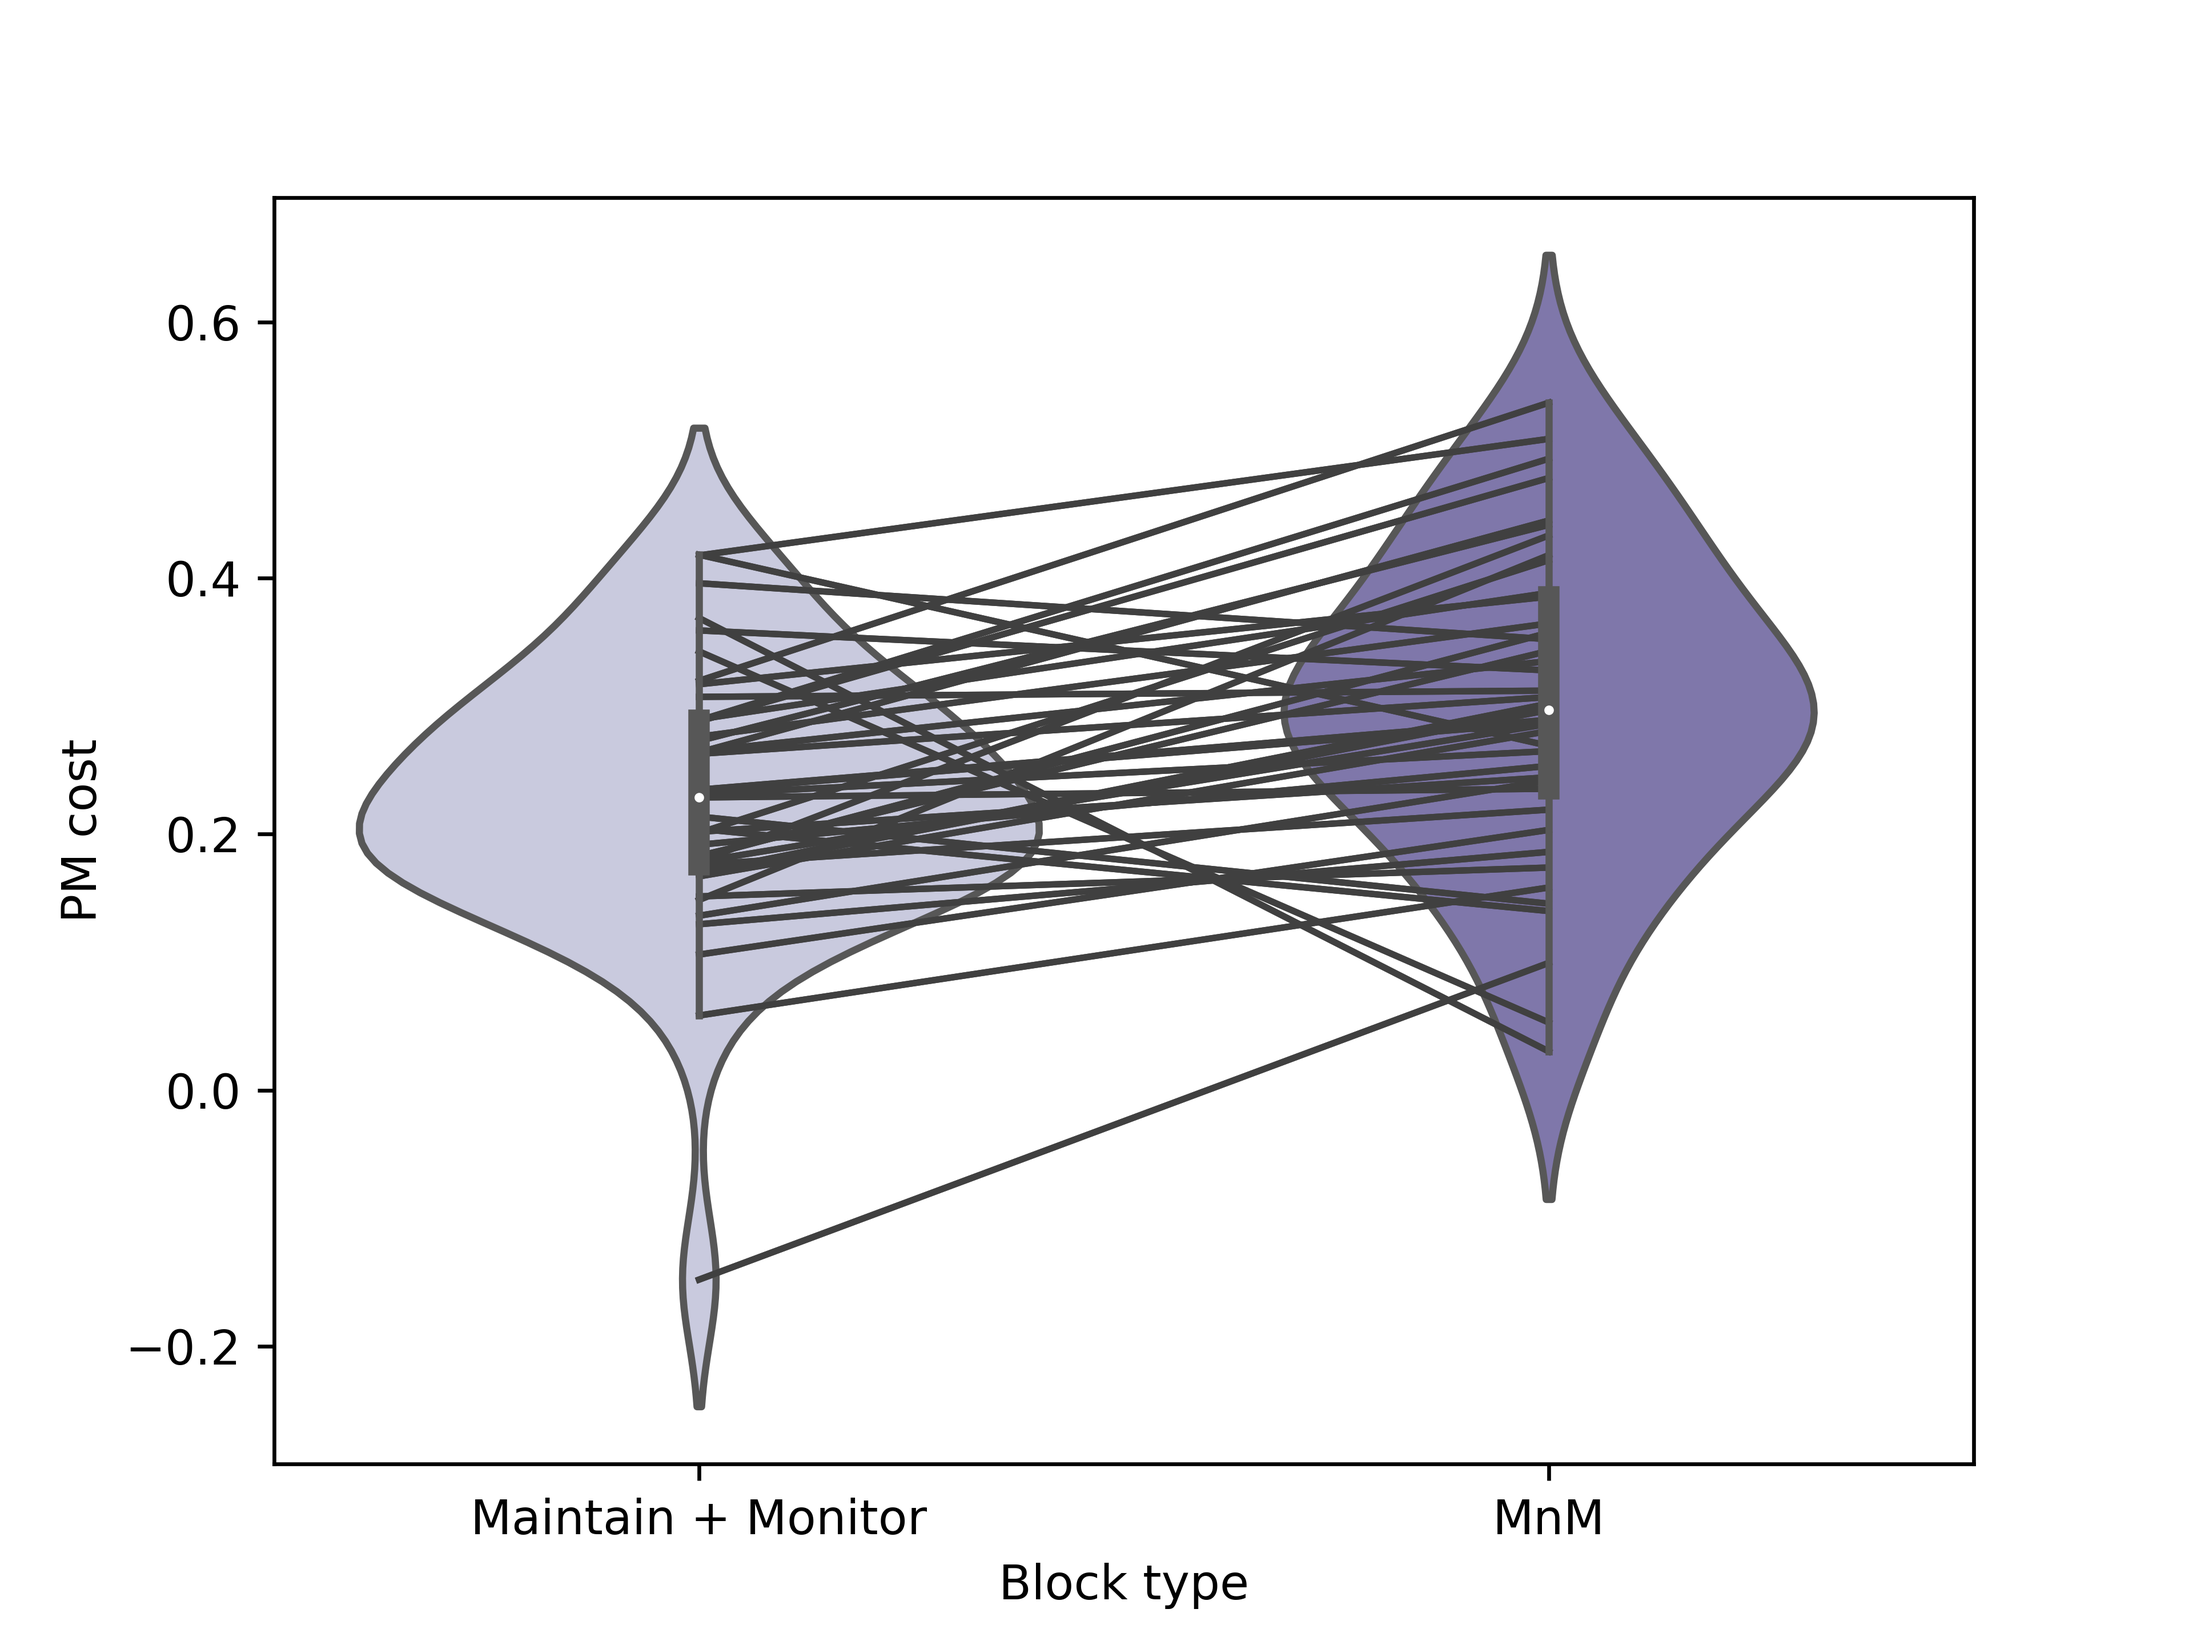
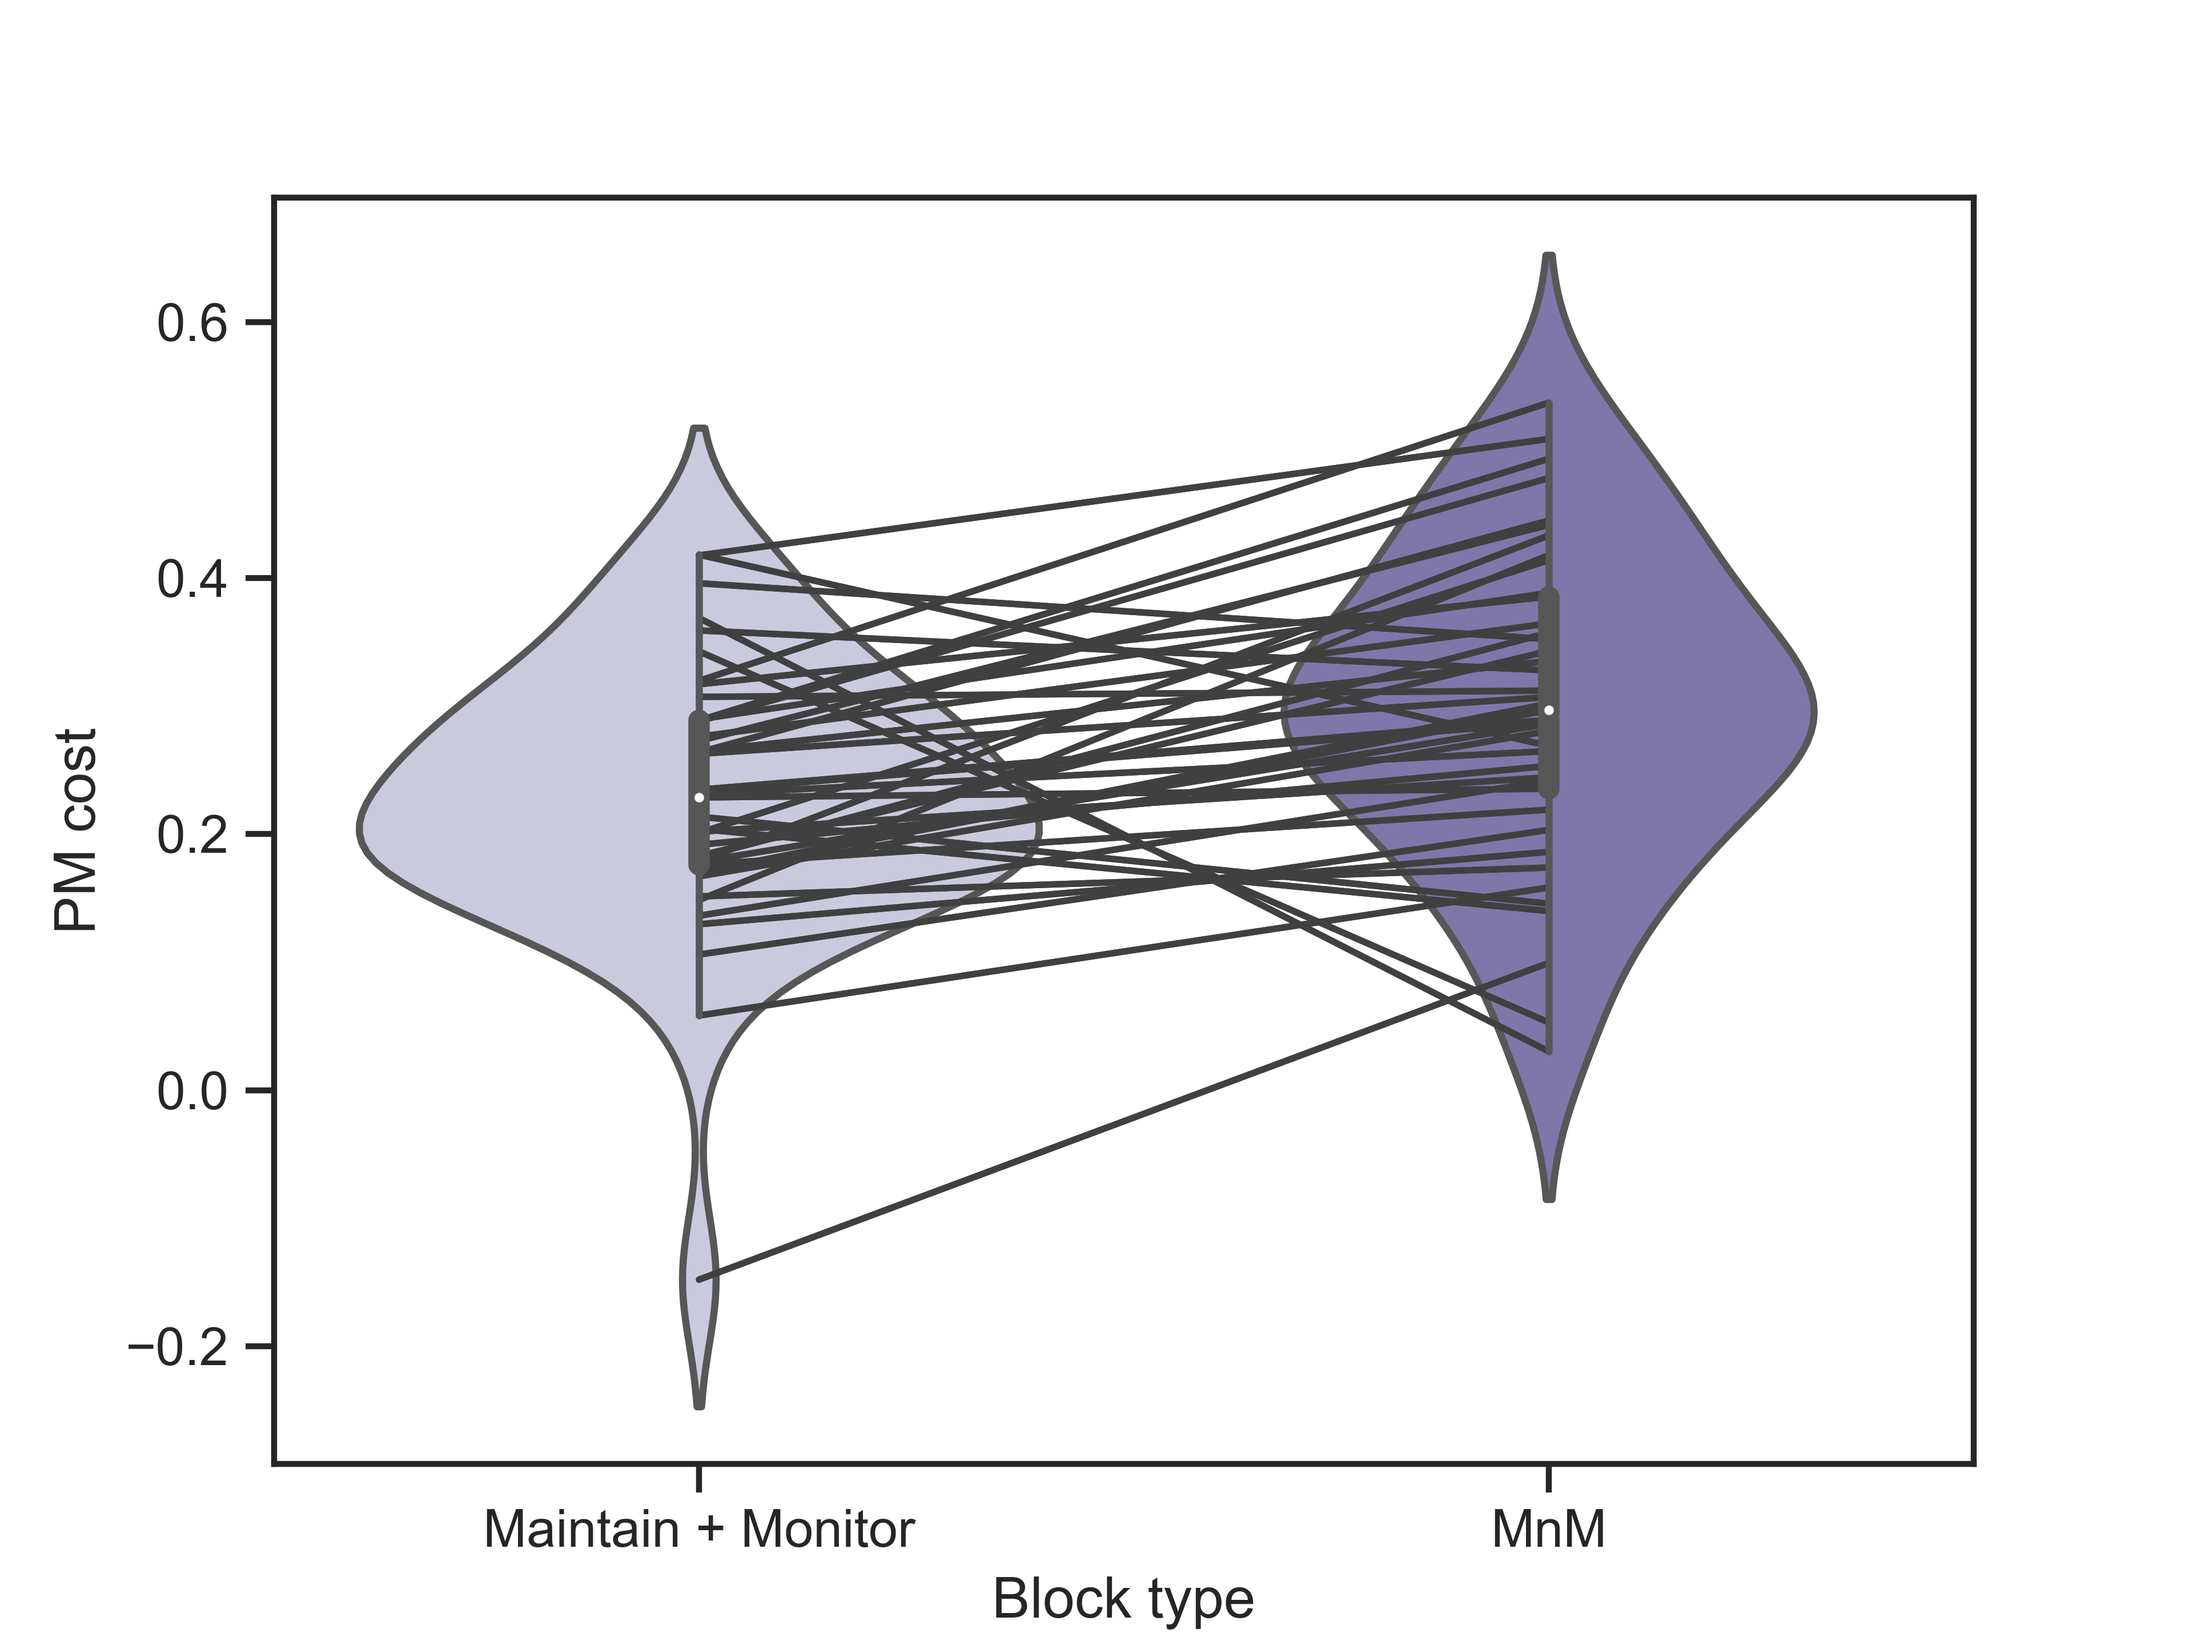
violin changed from .eps to .png

diff --git a/analysis/monitain_stats.py b/analysis/monitain_stats.py
@@ -485,7 +485,7 @@ ax.set_xlim([-0.2,0.5])
 ax.set_ylim([-0.2,0.5])
 ax = sea.regplot(x='mplusm_cost', y = 'mnm_cost', data = mplusmCost_mnmCost, color = 'purple', scatter = True) 
 plt.xlabel('Maintainence + Monitoring cost (s)')
-plt.ylabel('Combined performance')
+plt.ylabel('Combined cost (s)')
 plt.savefig(FIGURE_PATH + 'mplusmCost_v_combineCost.png', dpi = 600)
 plt.close()
 

diff --git a/analysis/monitain_v1.1_analysis.py b/analysis/monitain_v1.1_analysis.py
@@ -402,7 +402,7 @@ def allSubj_pmCompare_pointPlusViolin():
 	ax = sea.violinplot(x = all_pm_df.type, y = all_pm_df.pm_cost, palette="Purples")
 	plt.xlabel('Block type');
 	plt.ylabel('PM cost');
-	plt.savefig(FIGURE_PATH + 'allSubj_pmCompare_point_violin.eps', dpi = 600)
+	plt.savefig(FIGURE_PATH + 'allSubj_pmCompare_point_violin.png', dpi = 600)
 	plt.close()
 
 
